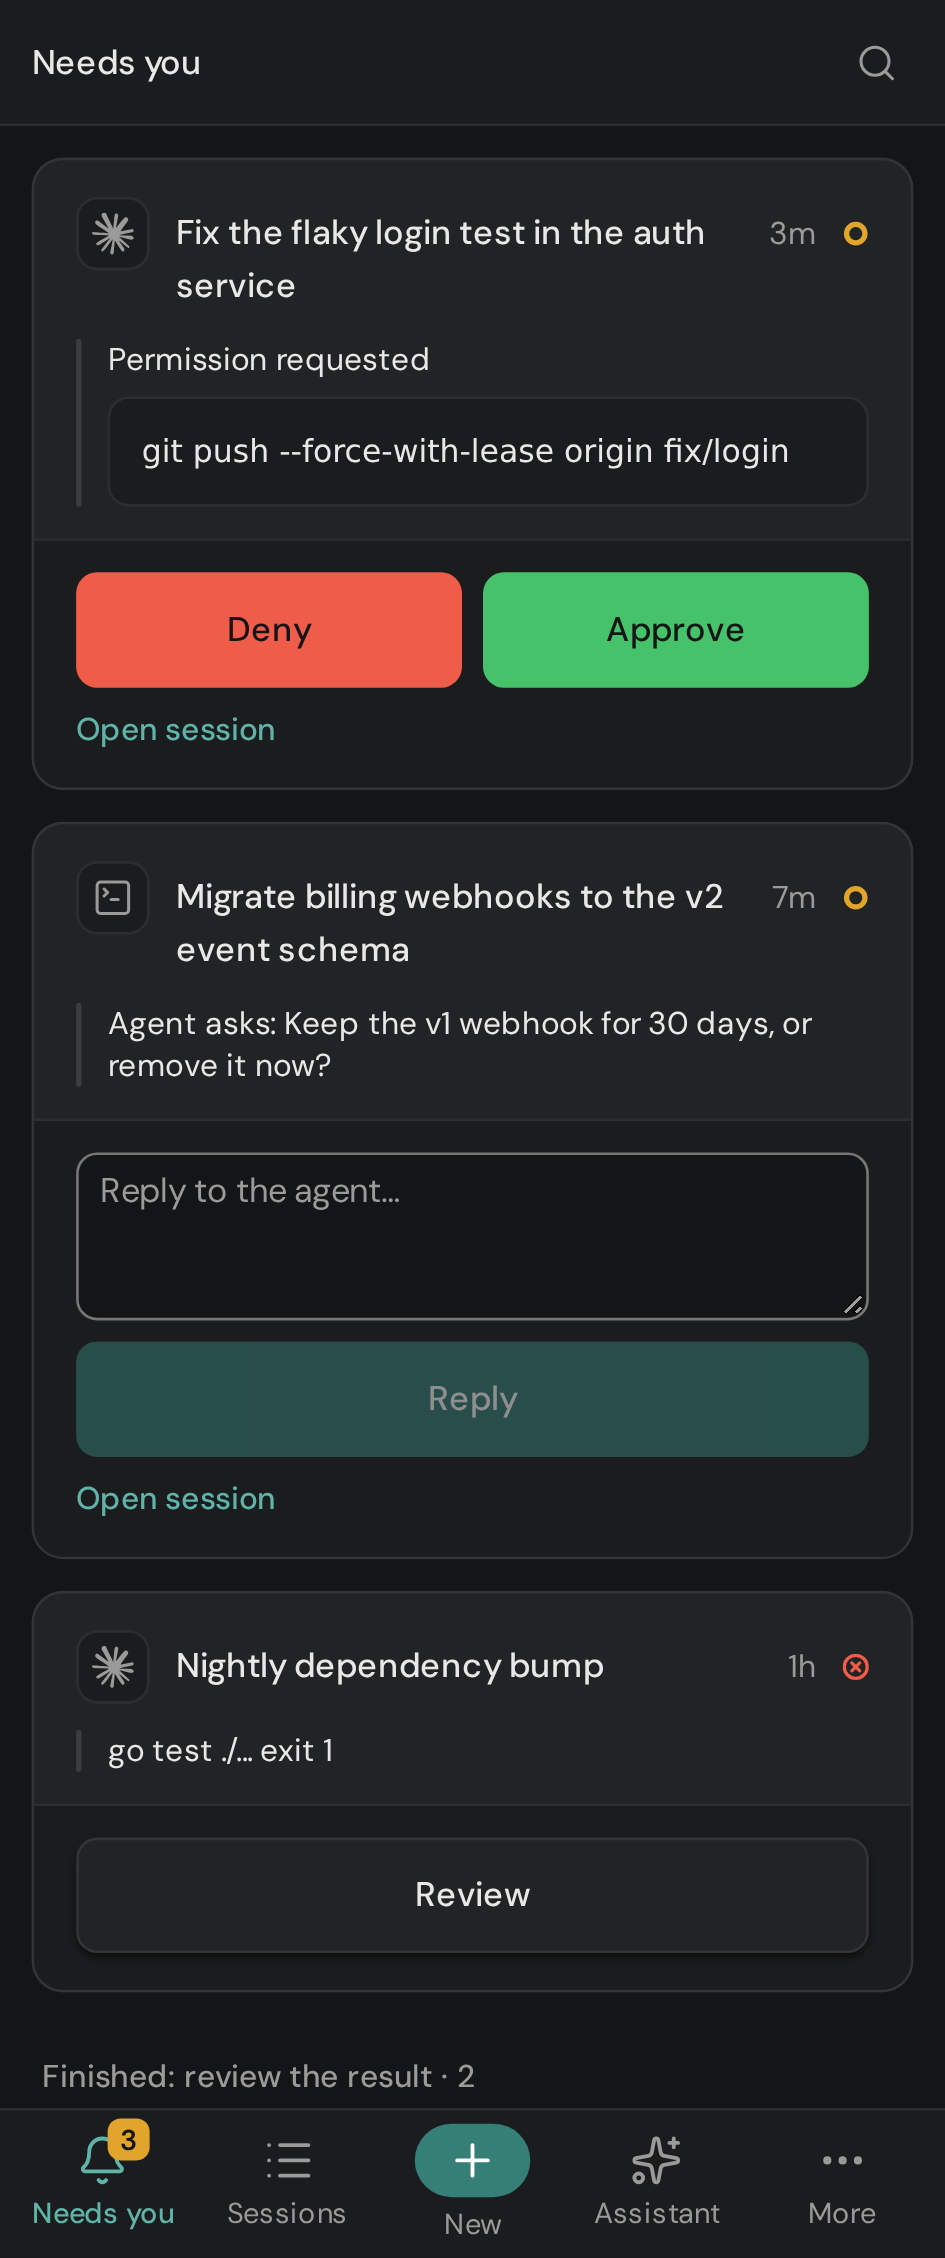
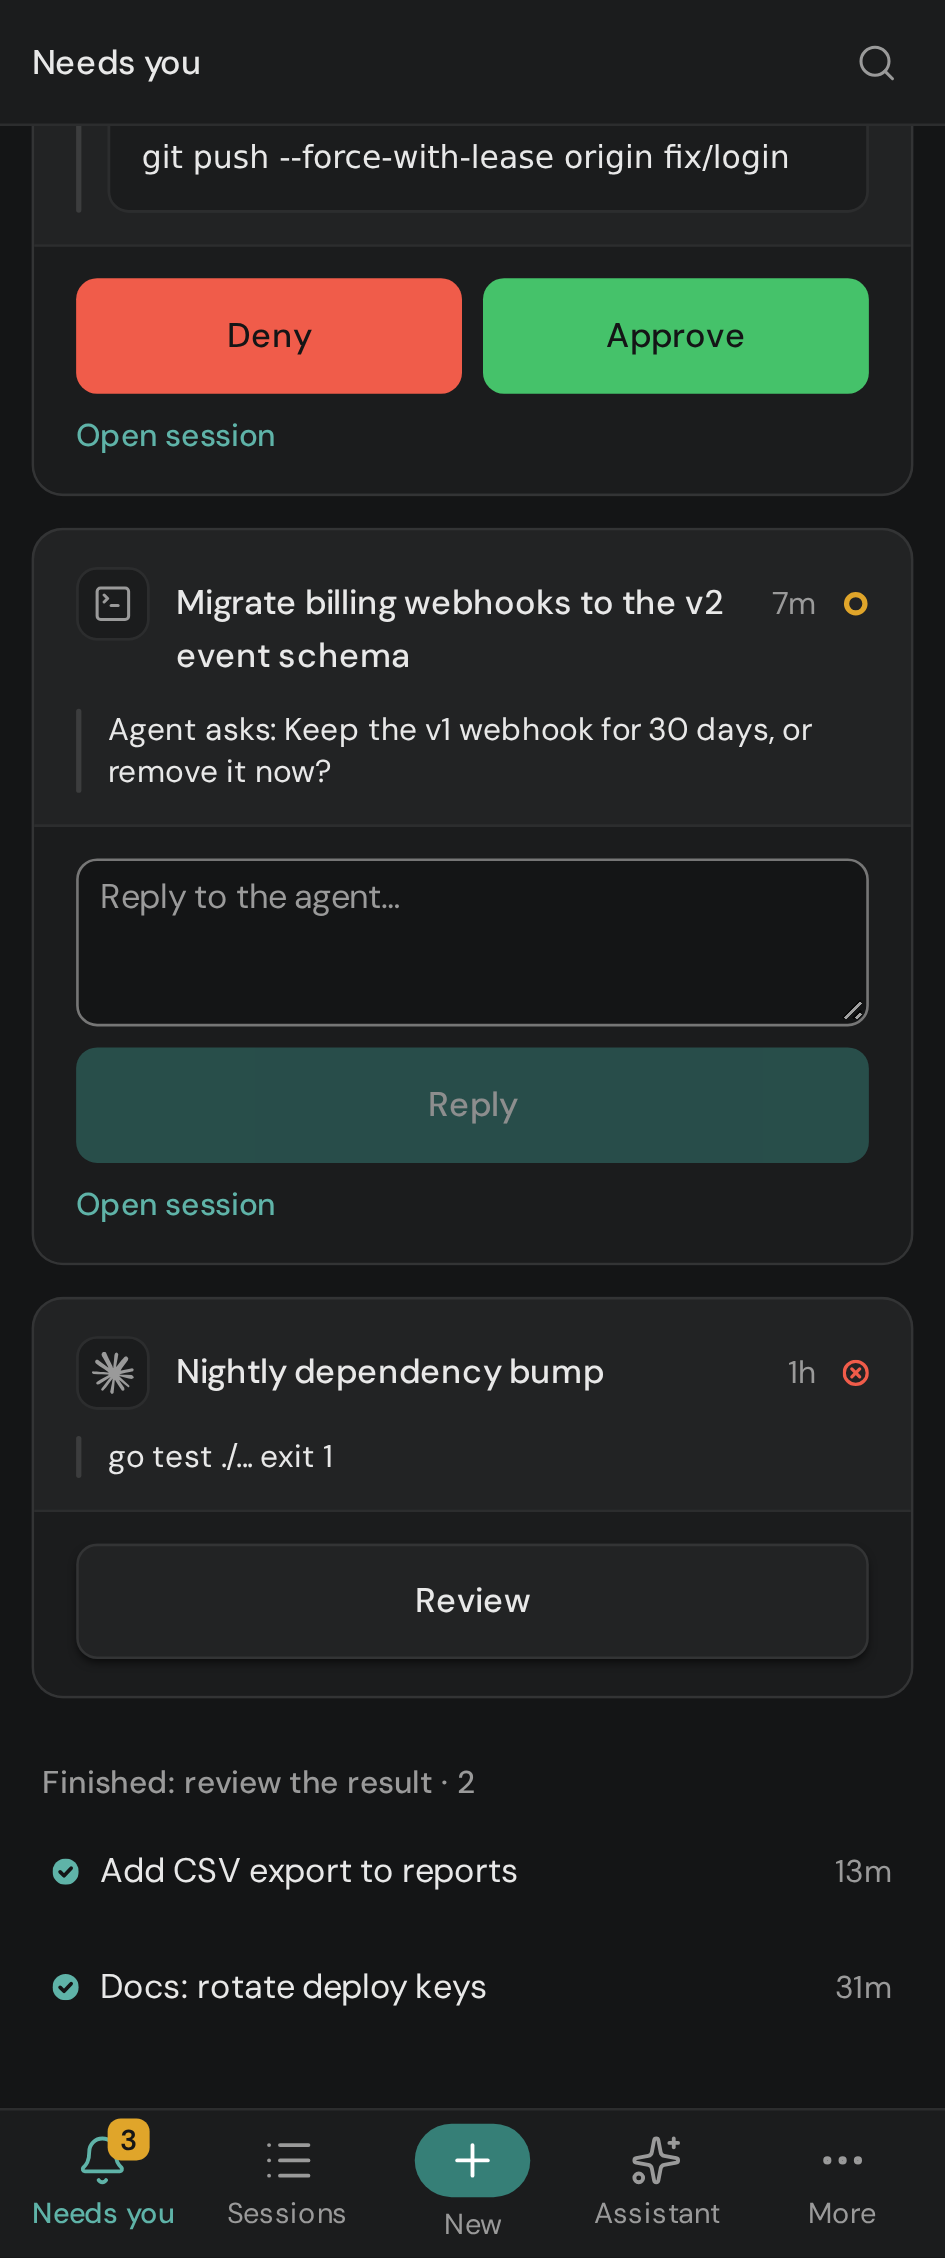
refactor(dashboard): narrow the question card's choice plan by type
choicePlan draws a question as buttons, so the card's guard for pills
could never fire. Also retakes the dark Finished screenshots scrolled to
the group.

diff --git a/web/src/routes/needs-you/index.tsx b/web/src/routes/needs-you/index.tsx
@@ -77,6 +77,7 @@ function Question({ item, onError }: { item: AttentionItem; onError: (error?: st
   const [busy, setBusy] = useState<string | null>(null)
   const late = usePastDeadline(busy !== null)
   const request = item.request!
+  // Only a permission with a tool call is drawn as pills.
   const plan = choicePlan({
     id: request.id,
     kind: 'question',
@@ -84,8 +85,7 @@ function Question({ item, onError }: { item: AttentionItem; onError: (error?: st
     options: request.options?.map((o) => ({ id: o.id, name: o.label, kind: o.kind })),
     schema: request.schema,
     status: 'pending',
-  }, undefined)
-  if (plan.kind !== 'buttons') return null
+  }, undefined) as Extract<ReturnType<typeof choicePlan>, { kind: 'buttons' }>
   const answer = async (optionID: string) => {
     setBusy(optionID)
     onError(undefined)
